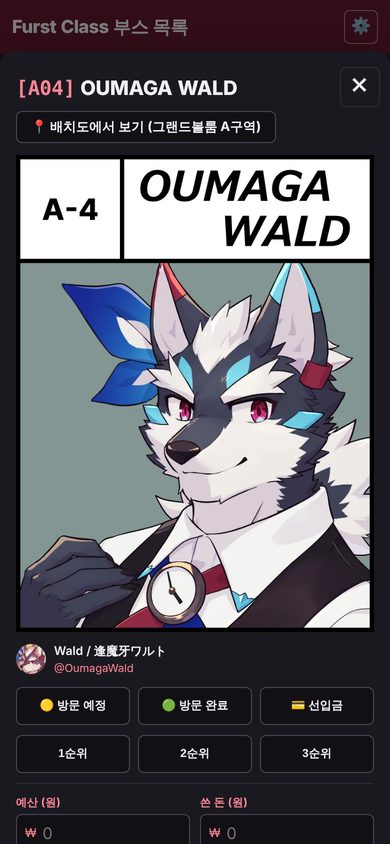
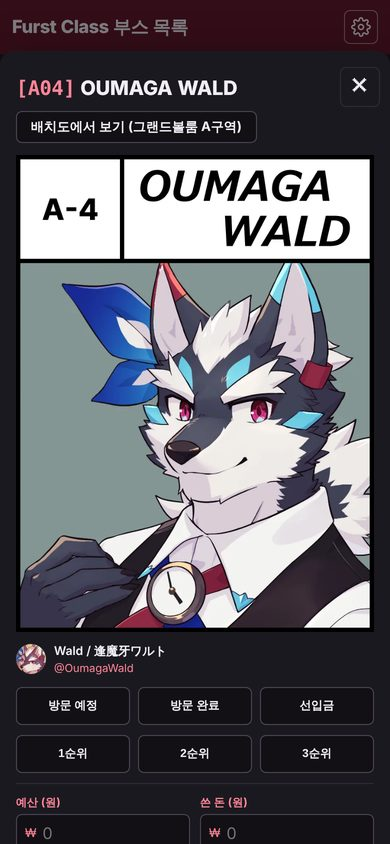
/newui: 이모지를 빼고 탭 이름 글자·선 아이콘으로 바꿈
사용자 요청. 기존 화면을 그리기 전에 부스 데이터 줄을 뺀 HTML에서 이모지를 지우고,
큰 제목 칸은 탭 이름, 설정·날씨는 SVG 아이콘, 메모 표시는 '메모' 꼬리표로 바꿈.
기존 화면(index.html)은 그대로.

Claude-Session: https://claude.ai/code/session_01F97b7GULUE1XQe9nqWefen

diff --git a/newui.html b/newui.html
@@ -18,15 +18,92 @@
 <noscript>이 페이지는 자바스크립트가 필요합니다.</noscript>
 <script>
 /* 새 디자인 시험 페이지 /newui (2026-11-22)
-   기존 화면(index.html)을 그대로 받아 와서, 새 디자인 스타일시트(newui.css)만 덧붙여 그립니다.
+   기존 화면(index.html)을 그대로 받아 와서, 새 디자인 스타일시트(newui.css)를 덧붙여 그립니다.
    그래서 부스 데이터·로그인 동기화·메모·우선순위·선입금·배치도 같은 기능과 저장 데이터는
-   기존 화면과 완전히 같고, 기존 화면이 바뀌면 이 페이지도 자동으로 따라갑니다. 바뀌는 건 겉모습뿐입니다. */
+   기존 화면과 완전히 같고, 기존 화면이 바뀌면 이 페이지도 자동으로 따라갑니다. 바뀌는 건 겉모습뿐입니다.
+
+   겉모습 때문에 받아 온 HTML 글자를 그리기 전에 고치는 곳:
+   1) 버튼·탭·안내 문구의 이모지를 뺌(사용자 요청 2026-11-22). 부스 데이터 줄(const BOOTHS)은 건드리지 않음.
+      닫기 ✕, 체크 ✓, 순위 ①②③ 같은 기호는 남김.
+   2) 이모지가 들어가던 큰 제목 칸(관심 부스·선입금·배치도 등)은 탭 이름 글자로,
+      설정 톱니바퀴와 날씨 그림은 직접 그린 SVG 아이콘으로 바꿈.
+   기존 화면 코드가 바뀌어 바꿀 글자를 못 찾으면 그 부분만 기존 모습 그대로 둠(기능에는 영향 없음). */
 (function(){
+  var NEWUI_CSS_VERSION = "2";
+
+  var ICONS = {
+    sun: '<circle cx="12" cy="12" r="4"/><path d="M12 2v2M12 20v2M4.9 4.9l1.4 1.4M17.7 17.7l1.4 1.4M2 12h2M20 12h2M4.9 19.1l1.4-1.4M17.7 6.3l1.4-1.4"/>',
+    partly: '<path d="M8 3v1.5M3.5 7.5H2M4.6 4.6l1 1M12.4 4.6l-1 1"/><path d="M5.2 10.5a3.5 3.5 0 0 1 6.3-3.3"/><path d="M8 20h9a4 4 0 0 0 0-8 5.5 5.5 0 0 0-10.6 1.6A3.2 3.2 0 0 0 8 20z"/>',
+    cloud: '<path d="M7 19h10a4.5 4.5 0 0 0 .5-9A6 6 0 0 0 6 11.5 3.8 3.8 0 0 0 7 19z"/>',
+    fog: '<path d="M4 9h16M2 13h20M5 17h14"/>',
+    rain: '<path d="M7 15h10a4.5 4.5 0 0 0 .5-9A6 6 0 0 0 6 7.5 3.8 3.8 0 0 0 7 15z"/><path d="M8 18l-1 3M12 18l-1 3M16 18l-1 3"/>',
+    snow: '<path d="M7 14h10a4.5 4.5 0 0 0 .5-9A6 6 0 0 0 6 6.5 3.8 3.8 0 0 0 7 14z"/><path d="M8 18h.01M12 20h.01M16 18h.01M10 22h.01M14 22h.01"/>',
+    storm: '<path d="M7 14h10a4.5 4.5 0 0 0 .5-9A6 6 0 0 0 6 6.5 3.8 3.8 0 0 0 7 14z"/><path d="M12 15l-2 4h4l-2 4"/>',
+    temp: '<path d="M14 14.8V5a2 2 0 0 0-4 0v9.8a4 4 0 1 0 4 0z"/>',
+    drop: '<path d="M12 3s6 6.5 6 11a6 6 0 0 1-12 0c0-4.5 6-11 6-11z"/>',
+    gear: '<circle cx="12" cy="12" r="3"/><path d="M19.4 15a1.7 1.7 0 0 0 .3 1.8l.1.1a2 2 0 1 1-2.8 2.8l-.1-.1a1.7 1.7 0 0 0-1.8-.3 1.7 1.7 0 0 0-1 1.5V21a2 2 0 1 1-4 0v-.1a1.7 1.7 0 0 0-1.1-1.5 1.7 1.7 0 0 0-1.8.3l-.1.1a2 2 0 1 1-2.8-2.8l.1-.1a1.7 1.7 0 0 0 .3-1.8 1.7 1.7 0 0 0-1.5-1H3a2 2 0 1 1 0-4h.1a1.7 1.7 0 0 0 1.5-1.1 1.7 1.7 0 0 0-.3-1.8l-.1-.1a2 2 0 1 1 2.8-2.8l.1.1a1.7 1.7 0 0 0 1.8.3H9a1.7 1.7 0 0 0 1-1.5V3a2 2 0 1 1 4 0v.1a1.7 1.7 0 0 0 1 1.5 1.7 1.7 0 0 0 1.8-.3l.1-.1a2 2 0 1 1 2.8 2.8l-.1.1a1.7 1.7 0 0 0-.3 1.8V9a1.7 1.7 0 0 0 1.5 1H21a2 2 0 1 1 0 4h-.1a1.7 1.7 0 0 0-1.5 1z"/>'
+  };
+  function iconSvg(name){
+    return '<svg class="nu-icon" viewBox="0 0 24 24" aria-hidden="true">' + (ICONS[name] || ICONS.temp) + '</svg>';
+  }
+
+  // 기존 화면 스크립트보다 먼저 실행되는 도우미 (날씨 아이콘, 큰 제목 칸)
+  var NEWUI_PRELUDE = '<script>' +
+    'window.__nuIconSet=' + JSON.stringify(ICONS) + ';' +
+    'window.__nuIcon=function(n){var s=window.__nuIconSet;return \'<svg class="nu-icon" viewBox="0 0 24 24" aria-hidden="true">\'+(s[n]||s.temp)+\'</svg>\';};' +
+    'window.__nuWeather=function(c){' +
+      'var n=c===0?"sun":(c===1||c===2)?"partly":c===3?"cloud":(c===45||c===48)?"fog":' +
+      '[51,53,55,56,57,61,63,65,66,67,80,81,82].indexOf(c)>=0?"rain":[71,73,75,77,85,86].indexOf(c)>=0?"snow":' +
+      '[95,96,99].indexOf(c)>=0?"storm":"temp";' +
+      'return window.__nuIcon(n);' +
+    '};' +
+    'window.__nuLetter=function(text,isWord){' +
+      'var el=document.getElementById("currentLetter");' +
+      'if(!el)return;el.textContent=text;el.classList.toggle("nu-word",!!isWord);' +
+    '};' +
+  '<\/script>';
+
   var NEWUI_HEAD =
-    '<link rel="stylesheet" href="/newui.css?v=1">' +
+    NEWUI_PRELUDE +
+    '<link rel="stylesheet" href="/newui.css?v=' + NEWUI_CSS_VERSION + '">' +
     '<meta name="robots" content="noindex">';
   var NEWUI_BODY =
     '<a class="newui-back" href="/" title="기존 디자인으로 보기">기존 디자인</a>';
+
+  // 이모지(그림 글자)와 뒤따르는 띄어쓰기 하나. ✓✔✕✖(2713~2716)·①②③ 같은 기호는 남김.
+  var EMOJI_RE = /(?:[\u{1F000}-\u{1FAFF}]|[☀-✒✗-➿]|[⬀-⯿]|[←-⇿]|[⌚-⏿]|[〰〽㊗㊙])(?:|(?:[\u{1F000}-\u{1FAFF}]|[☀-➿])?)*[ \t]?/gu;
+
+  function stripEmoji(html){
+    return html.split("\n").map(function(line){
+      if(line.indexOf("const BOOTHS = ") === 0) return line;   // 부스 데이터(부스 이름 등)는 그대로
+      return line.replace(EMOJI_RE, "");
+    }).join("\n");
+  }
+
+  // 정확히 이 글자가 있을 때만 바꿈
+  function swap(html, from, to){
+    return html.indexOf(from) >= 0 ? html.split(from).join(to) : html;
+  }
+
+  function transform(html){
+    var L = 'document.getElementById("currentLetter").textContent = ';
+    html = swap(html, L + '"🕒";', 'window.__nuLetter(t("timetableBtn"), true);');
+    html = swap(html, L + '"🎪";', 'window.__nuLetter(t("infoBtn"), true);');
+    html = swap(html, L + '"🗺";', 'window.__nuLetter(t("mapBtn"), true);');
+    html = swap(html,
+      L + 'isNotesView ? "📝" : isPreorderView ? "💳" : isAllView ? "📋" : isUpdatesView ? "🆕" : currentRow;',
+      'window.__nuLetter(isNotesView ? t("notesBtn") : isPreorderView ? t("preorderBtn") : isAllView ? t("allBtn") : isUpdatesView ? t("updatesBtn") : currentRow, isNotesView || isPreorderView || isAllView || isUpdatesView);');
+    html = swap(html, '<div class="weather-icon">${weatherIcon(c.code)}</div>', '<div class="weather-icon">${window.__nuWeather(c.code)}</div>');
+    html = swap(html, '<div class="weather-hum">💧 ', '<div class="weather-hum">${window.__nuIcon("drop")}');
+    html = swap(html, 'aria-label="Settings">⚙</button>', 'aria-label="Settings">' + iconSvg("gear") + '</button>');
+    html = stripEmoji(html);
+    return html
+      .replace("</head>", NEWUI_HEAD + "\n</head>")
+      .replace(/<title>([^<]*)<\/title>/, "<title>$1 (새 디자인)</title>")
+      .replace(/<html([^>]*)>/, '<html$1 data-newui="1">')
+      .replace(/<\/body>(?![\s\S]*<\/body>)/, NEWUI_BODY + "\n</body>");
+  }
+
   function fail(msg){
     var b = document.getElementById("boot");
     if(b) b.innerHTML = "기존 화면을 불러오지 못했어요. " + msg + '<br><a href="/">기존 화면으로 가기</a>';
@@ -36,13 +113,8 @@
     return r.text();
   }).then(function(html){
     if(html.indexOf("</head>") < 0 || html.indexOf("</body>") < 0) throw new Error("(형식)");
-    html = html
-      .replace("</head>", NEWUI_HEAD + "\n</head>")
-      .replace(/<title>([^<]*)<\/title>/, "<title>$1 (새 디자인)</title>")
-      .replace(/<html([^>]*)>/, '<html$1 data-newui="1">')
-      .replace(/<\/body>(?![\s\S]*<\/body>)/, NEWUI_BODY + "\n</body>");
     document.open();
-    document.write(html);
+    document.write(transform(html));
     document.close();
   }).catch(function(e){ fail(e && e.message || ""); });
 })();

diff --git a/newui.css b/newui.css
@@ -427,3 +427,29 @@ html[data-newui] .grid{ border-top-color:var(--nu-grid-top, var(--ink)); }
 html[data-newui]{ background:var(--paper); }
 /* 관심 부스 탭 카드 아래 "방문 완료" 버튼 */
 html[data-newui] .booth .quick-visit-btn{ width:calc(100% - 16px); margin:8px 8px 0; border-radius:6px; }
+
+/* ---------- 11. 이모지 대신 쓰는 아이콘·글자 (newui.html 이 이모지를 빼고 넣음) ---------- */
+html[data-newui] .nu-icon{
+  width:18px; height:18px; flex:none; vertical-align:-3px;
+  fill:none; stroke:currentColor; stroke-width:1.8; stroke-linecap:round; stroke-linejoin:round;
+}
+html[data-newui] .settings-btn{ display:inline-flex; align-items:center; justify-content:center; }
+html[data-newui] .settings-btn .nu-icon{ width:20px; height:20px; }
+html[data-newui] .weather-icon .nu-icon{ width:34px; height:34px; stroke-width:1.5; vertical-align:0; color:var(--ink); }
+html[data-newui] .weather-hum .nu-icon{ width:13px; height:13px; margin-right:3px; vertical-align:-2px; }
+/* 큰 제목 칸에 블록 글자 대신 탭 이름이 들어갈 때 */
+html[data-newui] .row-heading .big-letter.nu-word{ font-size:34px; letter-spacing:-.03em; color:var(--ink); }
+/* 메모 표시(기존 📝 자리): 작은 "메모" 꼬리표 */
+html[data-newui] .memo-flag{ font-size:0; padding:0; width:auto; }
+html[data-newui] .memo-flag::after{
+  content:"메모";
+  display:block;
+  font-size:10.5px; font-weight:800; line-height:1;
+  padding:4px 6px; border-radius:4px;
+  background:var(--clay); color:#fff;
+}
+html[data-newui][data-theme="dark"] .memo-flag::after{ color:#121015; }
+@media (max-width:700px){
+  html[data-newui] .row-heading .big-letter.nu-word{ font-size:26px; }
+}
+html[data-newui] .memo-flag{ top:auto; left:auto; bottom:10px; right:8px; background:none; box-shadow:none; }

diff --git a/docs/wiki/기능-새-디자인-시험-페이지.md b/docs/wiki/기능-새-디자인-시험-페이지.md
@@ -15,6 +15,9 @@
   - 메모·방문 예정·방문 완료는 칸 바탕색 + 칸 안쪽 테두리, 우선순위 ①②③ 색 테두리는 칸 안쪽에 그림.
   - PC 펼침 상세는 격자 한 줄을 차지하는 "펼친 면"(각진 모서리, 위쪽 검은 선), 휴대폰 부스 상세는 아래에서 올라오는 시트.
   - 왼쪽 아래 "← 기존 디자인" 버튼으로 기존 화면으로 돌아감(부스 상세가 열려 있을 땐 숨김).
+  - **이모지를 쓰지 않음**(2026-11-22 사용자 요청): 탭·버튼·안내 문구 앞의 이모지(📝 💳 🗺 ⚙ 🐞 …)를 모두 빼고,
+    관심 부스·선입금·배치도 같은 탭의 큰 제목 칸은 이모지 대신 탭 이름 글자, 설정 버튼과 날씨는 직접 그린 선 아이콘,
+    메모 표시는 작은 "메모" 꼬리표로 바꿈. 닫기 ✕, 순위 ①②③ 같은 기호와 부스 이름 속 글자(부스 데이터)는 그대로.
 
 ## 왜 이렇게 했나
 - 2026-11-22 처음에는 부스 목록·검색·상세만 담은 별도 페이지로 만들었는데, 사용자가 "기존 기능들은 그대로 둔 채로 바꿔 달라"고 함.
@@ -30,7 +33,12 @@
 - `newui.html`: 작은 껍데기 페이지. `/index.html`을 받아 와서
   1. `</head>` 앞에 `<link rel="stylesheet" href="/newui.css?v=1">`(+ `noindex`)를 넣고,
   2. `<html>`에 `data-newui="1"`을 붙이고, 제목 뒤에 "(새 디자인)", `</body>` 앞에 "기존 디자인" 버튼을 넣은 뒤,
-  3. `document.write`로 그 HTML을 그대로 그림. 그래서 index.html의 스크립트가 똑같이 실행됨.
+  3. 그리기 전에 이모지를 뺌: `const BOOTHS = ` 줄(부스 데이터)을 뺀 모든 줄에서 이모지와 뒤 띄어쓰기 하나를 지움(`stripEmoji`).
+     큰 제목 칸에 이모지를 넣던 코드는 `window.__nuLetter(t("notesBtn"), true)`처럼 탭 이름을 넣도록,
+     날씨 그림은 `window.__nuWeather(code)`(SVG), 설정 ⚙ 버튼은 SVG 톱니바퀴로 바꿈(`swap`, 글자를 못 찾으면 그냥 넘어감).
+  4. `document.write`로 그 HTML을 그대로 그림. 그래서 index.html의 스크립트가 (이모지만 빠진 채) 똑같이 실행됨.
+  - 알아둘 점: 버그 제보 기록의 `code`(사이트 코드 지문)는 스크립트 글자로 계산하므로, 이 페이지에서 보낸 제보는
+    `tools/code_fingerprint.py`로 커밋을 찾지 못함(이모지를 뺀 만큼 글자가 달라서). 시험 페이지라 그대로 둠.
   불러오지 못하면 "기존 화면으로 가기" 링크를 보여 줌.
 - `newui.css`: 모든 규칙이 `html[data-newui]` 아래에만 걸려서 기존 화면(`/`)에는 영향이 없음.
   1. 색 변수(라이트·다크 둘 다) 2. 글꼴·선택색·포커스 3. 머리(표지 띠는 `.top-inner::before`로 화면 폭만큼 깜) 4. 블록 큰 글자
@@ -55,4 +63,5 @@
 
 ## 변경 기록
 - 2026-11-22 처음 만듦: 동인 행사 카탈로그 디자인. 처음엔 목록·검색·상세만 담은 별도 페이지였다가, 같은 날 사용자 요청으로
-  기존 화면을 그대로 불러와 스타일만 덮어쓰는 방식으로 바꿔 모든 기능을 살림 (이 PR)
+  기존 화면을 그대로 불러와 스타일만 덮어쓰는 방식으로 바꿔 모든 기능을 살림. 이어서 사용자 요청으로 이모지를 빼고
+  탭 이름 글자·선 아이콘으로 바꿈 (이 PR)

diff --git a/docs/wiki/변경-이력.md b/docs/wiki/변경-이력.md
@@ -4,7 +4,7 @@
 
 | 날짜 | 내용 | 커밋/PR |
 |---|---|---|
-| 2026-11-22 | 새 디자인 시험 페이지 `/newui` 추가(사용자 요청): 기존 화면을 그대로 불러와 스타일시트(`newui.css`)만 덧붙여 "동인 행사 카탈로그" 디자인으로 보여 줌. 로그인·동기화·메모·선입금·배치도 등 모든 기능과 저장 데이터가 기존 화면과 같음(괘선 격자, 블록 색 탭, 크림슨 표지 띠, 휴대폰 아래 시트, 라이트·다크). 기존 파일은 안 고치고 `newui.html`·`newui.css`만 추가 ([문서](기능-새-디자인-시험-페이지.md)) | (이 PR) |
+| 2026-11-22 | 새 디자인 시험 페이지 `/newui` 추가(사용자 요청): 기존 화면을 그대로 불러와 스타일시트(`newui.css`)만 덧붙여 "동인 행사 카탈로그" 디자인으로 보여 줌. 로그인·동기화·메모·선입금·배치도 등 모든 기능과 저장 데이터가 기존 화면과 같음(괘선 격자, 블록 색 탭, 크림슨 표지 띠, 휴대폰 아래 시트, 라이트·다크, 이모지 대신 글자·선 아이콘). 기존 파일은 안 고치고 `newui.html`·`newui.css`만 추가 ([문서](기능-새-디자인-시험-페이지.md)) | (이 PR) |
 | 2026-11-22 | B-26(Fur-펙트 게임) 부스원 검댕의 X 아이디 @gumdangart 추가(사용자 요청). 부스 상세 부스원 목록에 X 링크가 보이고 상품 글 수집 대상에도 들어감. 프로필 사진은 아직 없어 기본 그림으로 표시 ([문서](기능-부스원과-부스컷.md)) | (이 PR) |
 | 2026-11-22 | 부스원 프로필 사진 3개 추가: B-06 black-kun(@Blackclownowo), B-27 LEO(@snow_meatball), C-03 Furscord(@Furscord_booth). 기본 그림 대신 X 프로필 사진이 보임. 사진 받는 스크립트는 최신 main을 받은 뒤 돌려야 한다는 안내 추가 ([문서](기능-부스원과-부스컷.md)) | (이 PR) |
 | 2026-11-22 | Claude Code 디자인 스킬 3개(hallmark, design-taste-frontend, impeccable)를 `.claude/skills/`에 추가(사용자 요청). 스레드에서도 설치 없이 쓰기 위함. 출처·커밋·라이선스는 `.claude/skills/README.md`. `.assetsignore`에 `.claude`를 넣어 배포에서 뺌. 사이트 코드 변경 없음 ([문서](개발-도구-디자인-스킬.md)) | (이 PR) |
